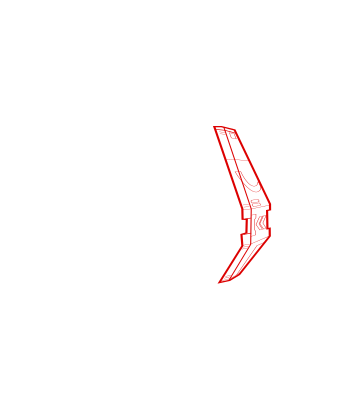
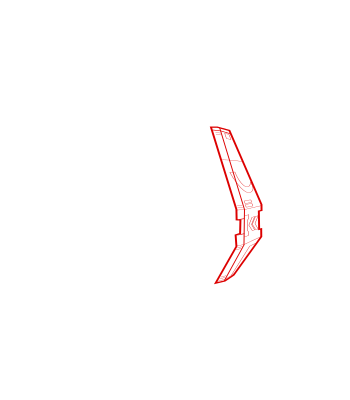
add hauler wing

Changed region(s): [[0.6, 0.3, 0.8, 0.72]]

diff --git a/public/nmsce.js b/public/nmsce.js
@@ -2477,8 +2477,6 @@ const haulerWingsMap = `
             <area alt="h6" coords="4,137,3,237,76,197,98,157,101,125" shape="poly">
             <area alt="h17" coords="120,148,111,163,127,177,158,172,205,147,199,119,156,144" shape="poly">
             <area alt="h7" coords="97,181,73,251,211,245,220,227,214,212,150,186" shape="poly">
-            <area alt="h8" coords="206,123,237,229,210,287,243,287,273,239,275,199,238,123" shape="poly">
-            <area alt="h9" coords="256,115,262,143,295,168,304,245,273,265,262,286,272,287,340,261,341,134,296,116" shape="poly">
             <area alt="h10" coords="22,237,4,264,23,309,64,311,54,272,61,234" shape="poly">
             <area alt="h11" coords="93,270,92,301,193,300,188,259" shape="poly">
             <area alt="h12" coords="8,315,8,385,73,389,80,317" shape="poly">
@@ -2486,6 +2484,9 @@ const haulerWingsMap = `
             <area alt="h14" coords="170,313,168,389,220,391,228,313" shape="poly">
             <area alt="h15" coords="237,314,236,391,276,399,293,375,272,303" shape="poly">
             <area alt="h16" coords="313,280,297,369,314,396,343,397,348,279" shape="poly">
+            <area alt="h8" coords="210,126,236,208,235,244,216,282,230,281,261,236,260,204,233,128" shape="poly">
+            <area alt="h9" coords="239,125,251,139,277,148,283,256,257,269,240,278,264,286,291,269,307,242,306,169,293,143,269,123" shape="poly">
+            <area alt="h18" coords="293,115,292,131,333,157,327,255,311,266,300,266,292,281,309,289,344,271,348,147,320,117" shape="poly">
         </map>
     </div>`
 
@@ -4141,6 +4142,9 @@ const objectList = [{
             imgText: true,
             search: true,
         }, {
+            // name: "Tags",
+            // type: "tags",
+            // db: "tags/baseTags",
             name: "Type",
             type: "menu",
             list: baseList,
